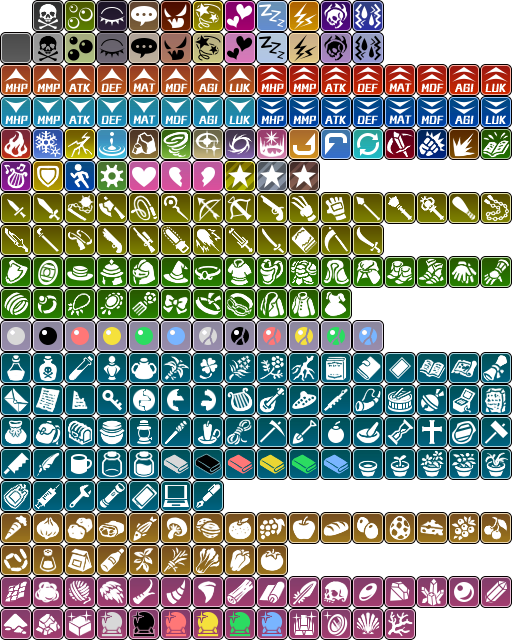
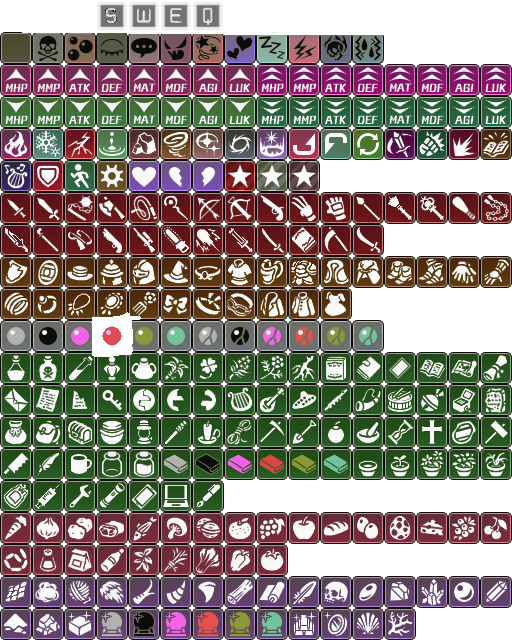
added sidescroller assets and test maps

diff --git a/js/plugins.js b/js/plugins.js
@@ -7,5 +7,26 @@ var $plugins =
 {"name":"TSR_TextColorAddOn","status":true,"description":"v1.8 Allow to add custom Text Color Code '\\c[x]' using CSS format","parameters":{"Color Object":"\"32: Aqua, \\n33: DarkCyan, \\n34: DarkKhaki\"","---Auto Text Adjusting---":"","Font Size":"true","Outline Opacity":"true","---Custom Icons Sheet---":"","Icons Sheet Name":"","Sheet Starting Index":"500","Sheet Horizontal Frame Size":"32","Sheet Vertical Frame Size":"32","Sheet SpritePerRows":"16","Icons Auto Scale":"true"}},
 {"name":"BlinkDetector","status":true,"description":"Blink Detection v1.2","parameters":{"HUD Position":"Top-Left","HUD Opacity":"0.8","Blink Sensitivity":"0.22","Use ESP32-CAM":"false","ESP32-CAM IP":"http://192.168.1.12/cam-lo.jpg"}},
 {"name":"AutoConsole","status":true,"description":"Automatically opens NW.js developer console on playtest.","parameters":{}},
-{"name":"WebCamServer","status":true,"description":"ES5: Run a Python script (e.g., webcam_server.py) automatically when the game launches (NW.js only).","parameters":{"ScriptPath":"scripts/webcam_server.py","PythonCommand":"","Args":"","LaunchMode":"Always","RestartIfCrashed":"true","RestartDelayMs":"1000","KillOnExit":"true"}}
+{"name":"WebCamServer","status":true,"description":"ES5: Run a Python script (e.g., webcam_server.py) automatically when the game launches (NW.js only).","parameters":{"ScriptPath":"scripts/webcam_server.py","PythonCommand":"","Args":"","LaunchMode":"Always","RestartIfCrashed":"true","RestartDelayMs":"1000","KillOnExit":"true"}},
+{"name":"SRD_SkipTitleWithoutSave","status":false,"description":"This Plugin skips the title screen if there is no save file present.","parameters":{}},
+{"name":"IgnisSmoothCameraSlide","status":true,"description":"Adds a smooth camera sliding when moving","parameters":{"Switch":"0","Scroll X":"20","Scroll Y":"20"}},
+{"name":"FixedDirectionHorizontal","status":true,"description":"Only allows player to face left or right (even when moving up or down). Example uses Platformer or Brawler/Beat'em Ups.","parameters":{}},
+{"name":"____________________________","status":false,"description":"","parameters":{}},
+{"name":"ZE - Key Mapper","status":true,"description":"This plugin lets you control the keys on the keyboard, and how they're mapped to the game.\r\n\r\n<pluginID ZE - Key Mapper>","parameters":{"0":"0","1":"1","2":"2","3":"3","4":"4","5":"5","6":"6","7":"7","8":"8","9":"9","Tab":"tab","Backspace":"backspace","Enter":"ok","Shift":"shift","Control":"control","Alt":"control","Pause":"pause","Capslock":"caps","Escape":"escape","Space":"backspace","Pageup":"pageup","Pagedown":"pagedown","Home":"home","End":"end","Left":"left","Up":"up","Right":"right","Down":"down","Print Screen":"prntscrn","Insert":"escape","Delete":"delete","A":"left","B":"b","C":"c","D":"right","E":"ok","F":"f","G":"g","H":"h","I":"i","J":"j","K":"k","L":"l","M":"m","N":"n","O":"o","P":"p","Q":"q","R":"escape","S":"down","T":"t","U":"u","V":"v","W":"up","X":"x","Y":"y","Z":"z","Semicolon":"semicolon","Equals":"equals","Minus":"minus","Super":"super","Media":"media","Num0":"num0","Num1":"num1","Num2":"num2","Num3":"num3","Num4":"num4","Num5":"num5","Num6":"num6","Num7":"num7","Num8":"num8","Num9":"num9","Num*":"multiply","Num+":"add","Num-":"subtract","Num.":"decimal","Num/":"divide","F1":"F1","F2":"F2","F3":"F3","F4":"F4","F5":"F5","F6":"F6","F7":"F7","F8":"F8","F9":"debug","F10":"F10","F11":"F11","F12":"F12","Numlock":"numlock","Scroll Lock":"scrollock","Comma":"comma","Period":"period","Slash":"slash","Backtick":"tilde","Open Brace":"[","Backslash":"\\","Closing Brace":"]","Quote":"'"}},
+{"name":"HIME_CommonEventButtons","status":true,"description":"v1.1 - Allows you to execute common events with the press of a \r\nbutton on the map.","parameters":{}},
+{"name":"MRP_CameraMouseMove","status":true,"description":"Camera moves when the mouse is at edge of screen.","parameters":{"Dragging Movement":"false","Border Distance":"100","Move Speed":"0.05","Always Show Player Move":"true"}},
+{"name":"____________________________","status":false,"description":"","parameters":{}},
+{"name":"Galv_PixelMove","status":true,"description":"(v.1.4) Gives the illusion of pixel movement for the player.","parameters":{"Diagonal Speed":"100","Diagonal Charset":"false","Tile Delay":"15"}},
+{"name":"GALV_CFStepSE","status":true,"description":"(v.1.2) Adds step sound effects to Galv's Character Frames plugin","parameters":{"Step Frames":"1","Events":"true","-- Terrain Step SE --":"","Terrain 1":"StepSound2, 20, 100","Terrain 2":"","Terrain 3":"","Terrain 4":"","Terrain 5":"","Terrain 6":"","Terrain 7":""}},
+{"name":"MOG_CharacterMotion","status":true,"description":"(v1.3) Sistema de animações dos sprites dos personagens.","parameters":{}},
+{"name":"GALV_CharacterFrames","status":true,"description":"Enables map character sheets to have more frames per character.","parameters":{"Frame Speed Modifier":"f * 0.9"}},
+{"name":"GALV_CharacterAnimations","status":true,"description":"(v.1.7) Make the player and follower characters use different\r\ngraphics for idle, walk and run. View HELP for more info.","parameters":{"Use Jump Graphic":"true","Common Event ID":"0","Common Event Time":"0","Repeat Common Event":"0"}},
+{"name":"GALV_StationaryTurn","status":true,"description":"(v.1.3) Change movement so the player turns on the spot if direction is tapped.","parameters":{"Delay":"10"}},
+{"name":"GALV_JumpAbility","status":false,"description":"Allows the player to jump by pressing a button.","parameters":{"Key":"space","Jump Distance":"6","Blocking Regions":"13","Jump Sound":""}},
+{"name":"____________________________","status":false,"description":"","parameters":{}},
+{"name":"DK_Big_Events","status":true,"description":"v.1.2.0 [MV|MZ] Allows you to expand the coverage of the event by several tiles.","parameters":{}},
+{"name":"GALV_LayerGraphics","status":true,"description":"(v.2.0) Create graphic layers for parallax mapping, fog, etc. View the 'Help' document for plugin commands and info.","parameters":{"Tile Size":"48"}},
+{"name":"GALV_MessageStyles","status":true,"description":"(v.2.8) Settings to change how your \"Show Text\" messages look as well as code to make them floating.","parameters":{"Input Indicator":"2,0,-12","Indicator Zoom":"100","Message Padding":"0,0,0,0","Message Windowskin":"Window","Other Windowskins":"","Arrow Graphic":"WindowArrow","Other Arrow Graphics":"","Windowskin Back Opacity":"192","Y Offset":"300","Font":"","Font Filename":"","Font Outline":"false","Font Size":"24"}},
+{"name":"GALV_MessageSoundEffects","status":true,"description":"Play sound effects when during Show Text event commands.","parameters":{"Delay Time":"5","Default Talk SE":"Cursor2,30,150","Default Confirm SE":"Cursor1,30,150","-----------":"","Quick SE 1":"","Quick SE 2":"","Quick SE 3":"","Quick SE 4":""}},
+{"name":"GALV_ActionIndicators","status":true,"description":"Display an icon when the player is able to interact with an event. View help for comment tag.","parameters":{"Y Offset":"-250","Z Position":"3","Auto Hide":"true","Icon Opacity":"200"}}
 ];

diff --git a/index.html b/index.html
@@ -11,7 +11,7 @@
     <link rel="icon" href="icon/icon.png" type="image/png" />
     <link rel="apple-touch-icon" href="icon/icon.png" />
     <link rel="stylesheet" type="text/css" href="fonts/gamefont.css" />
-    <title>Binondo Game</title>
+    <title>Balintataw</title>
 
     <!-- ES5/ES6 POLYFILLS (NEEDED FOR MV/NW.js) -->
     <script>